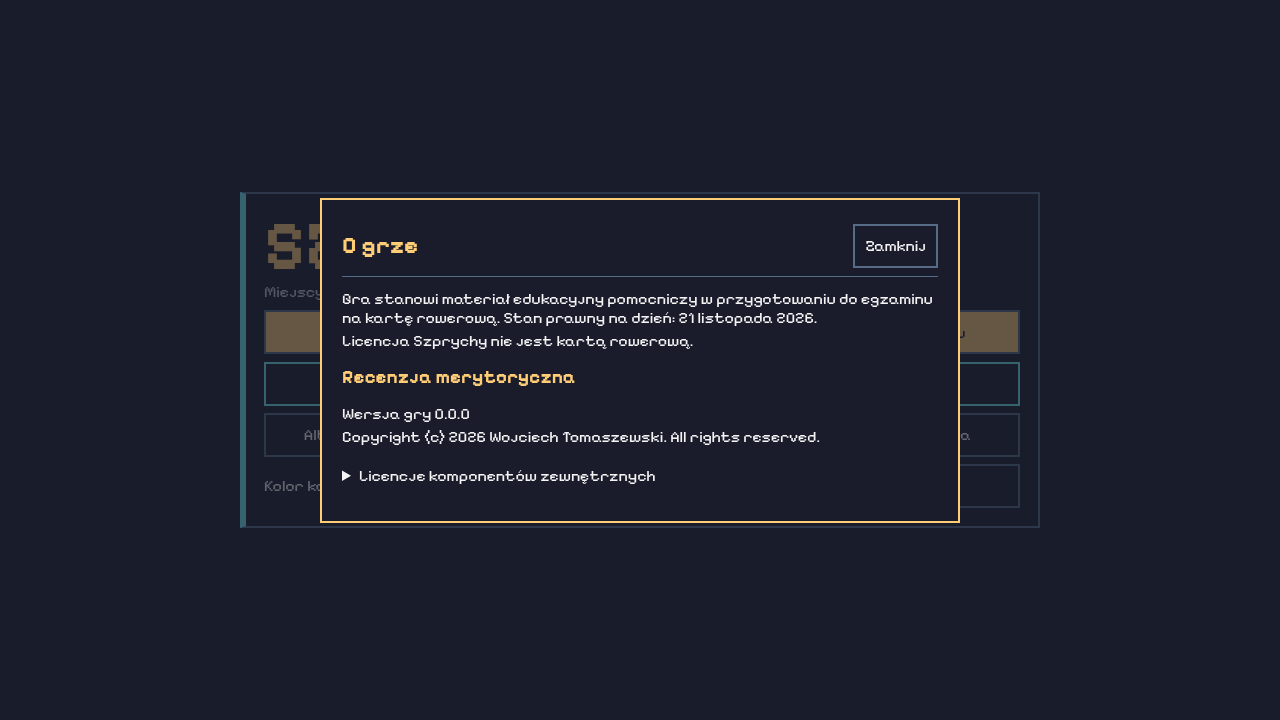
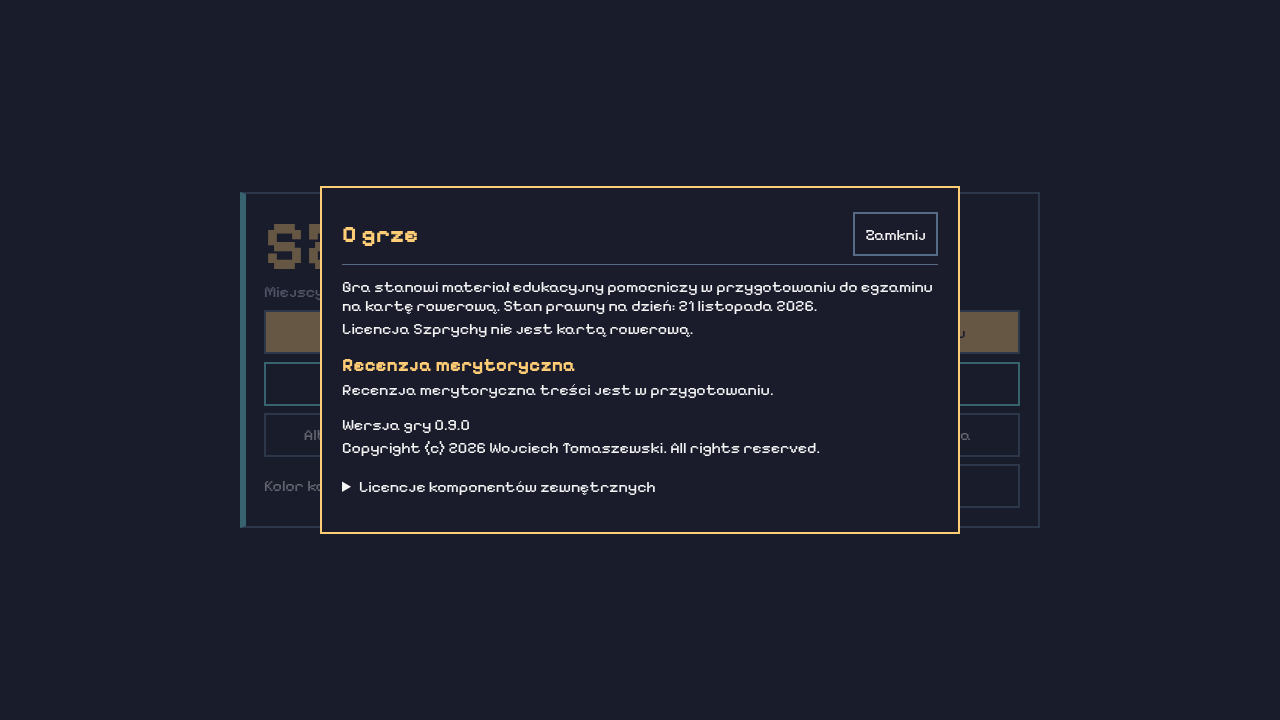
fix: uzupełnij recenzję i ujednolić wersję wydania

Changed region(s): [[0.25, 0.2444, 0.75, 0.7333]]

diff --git a/tests/e2e/licenses.spec.ts b/tests/e2e/licenses.spec.ts
@@ -32,7 +32,6 @@ test('opens the educational notice and third-party licenses offline from the men
   await expect(
     panel.getByText(`${labels.version} ${packageJson.version}`),
   ).toBeVisible();
-  await expect(panel.locator('section')).toHaveText(labels.review);
   await expect(
     panel.getByText(
       'Copyright (c) 2026 Wojciech Tomaszewski. All rights reserved.',
@@ -57,6 +56,30 @@ test('opens the educational notice and third-party licenses offline from the men
     'MainMenu',
   );
 });
+
+for (const [scenario, review] of [
+  ['pending', null],
+  ['configured', 'Treść została sprawdzona przez konsultanta.'],
+] as const) {
+  test(`shows the ${scenario} review in About`, async ({ page }) => {
+    await page.route('**/data/content.json', async (route) => {
+      const response = await route.fetch();
+      const content = await response.json();
+      content['o-grze'].recenzja_merytoryczna = review;
+      await route.fulfill({ response, json: content });
+    });
+    await page.goto('/');
+    await page.getByRole('button', { name: labels.title, exact: true }).click();
+
+    const panel = page.getByRole('dialog', { name: labels.title });
+    const section = panel.locator('section').filter({
+      has: page.getByRole('heading', { name: labels.review, exact: true }),
+    });
+    await expect(section.locator('p')).toHaveText(
+      review ?? labels.reviewPending,
+    );
+  });
+}
 
 test('opens About from the parent zone after the gate and restores focus', async ({
   page,

diff --git a/tests/tools/release-version.test.ts b/tests/tools/release-version.test.ts
@@ -1,0 +1,20 @@
+import { readFileSync } from 'node:fs';
+import { expect, it } from 'vitest';
+import { version } from '../../package.json';
+import lockfile from '../../package-lock.json';
+
+it('uses the package version in the lockfile and every native build configuration', () => {
+  const android = readFileSync('android/app/build.gradle', 'utf8');
+  const ios = readFileSync('ios/App/App.xcodeproj/project.pbxproj', 'utf8');
+  const androidVersions = [
+    ...android.matchAll(/^\s*versionName\s+"([^"]+)"/gm),
+  ].map((match) => match[1]);
+  const iosVersions = [
+    ...ios.matchAll(/^\s*MARKETING_VERSION\s*=\s*([^;]+);/gm),
+  ].map((match) => match[1]?.trim());
+
+  expect(lockfile.version).toBe(version);
+  expect(lockfile.packages[''].version).toBe(version);
+  expect(androidVersions).toEqual([version]);
+  expect(iosVersions).toEqual([version, version]);
+});

diff --git a/src/ui/AboutGame.ts b/src/ui/AboutGame.ts
@@ -39,13 +39,10 @@ export function aboutGame(content: GameContent) {
   const review = document.createElement('section');
   const reviewTitle = document.createElement('h3');
   reviewTitle.textContent = labels.review;
-  review.append(reviewTitle);
-  const { recenzja_merytoryczna } = content['o-grze'];
-  if (recenzja_merytoryczna) {
-    const text = document.createElement('p');
-    text.textContent = recenzja_merytoryczna;
-    review.append(text);
-  }
+  const reviewText = document.createElement('p');
+  reviewText.textContent =
+    content['o-grze'].recenzja_merytoryczna ?? labels.reviewPending;
+  review.append(reviewTitle, reviewText);
 
   const gameVersion = document.createElement('p');
   gameVersion.textContent = `${labels.version} ${version}`;
